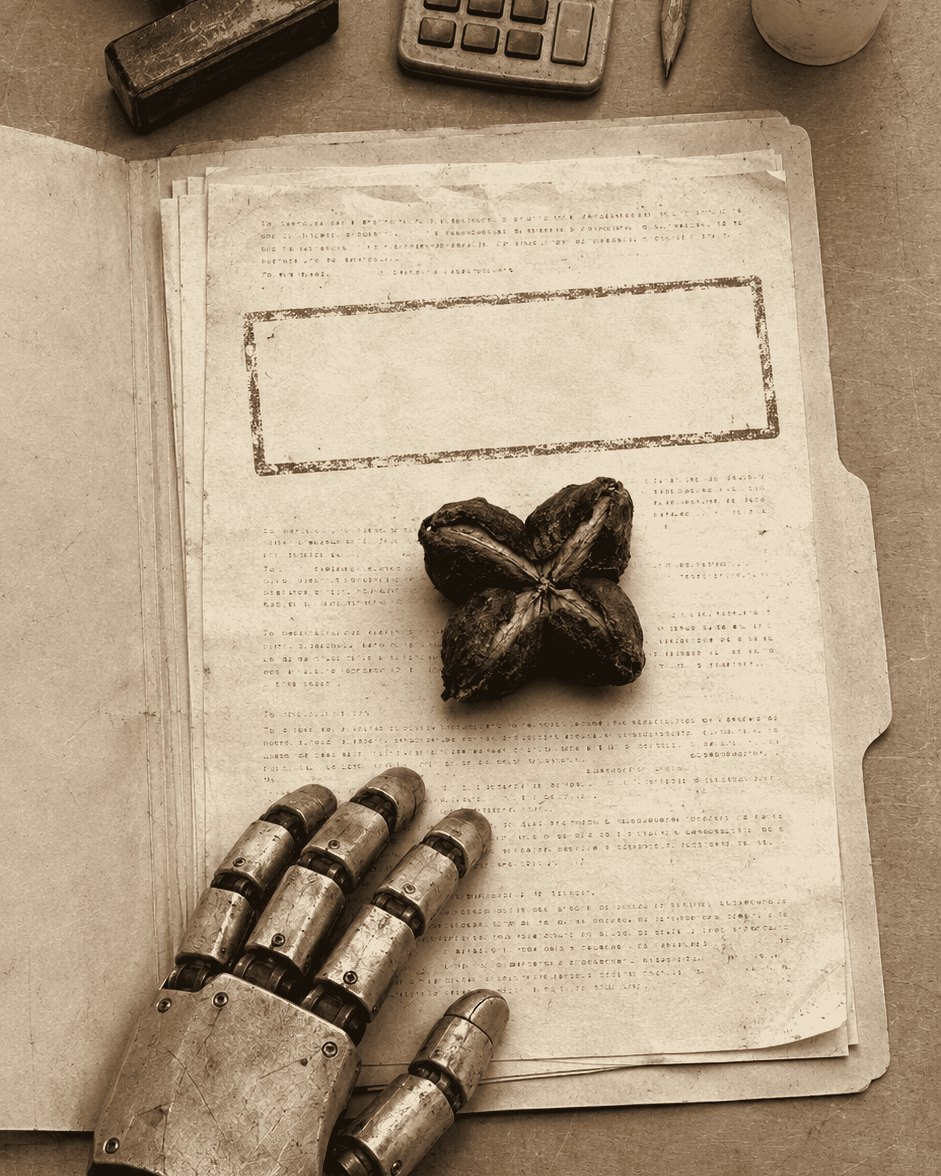
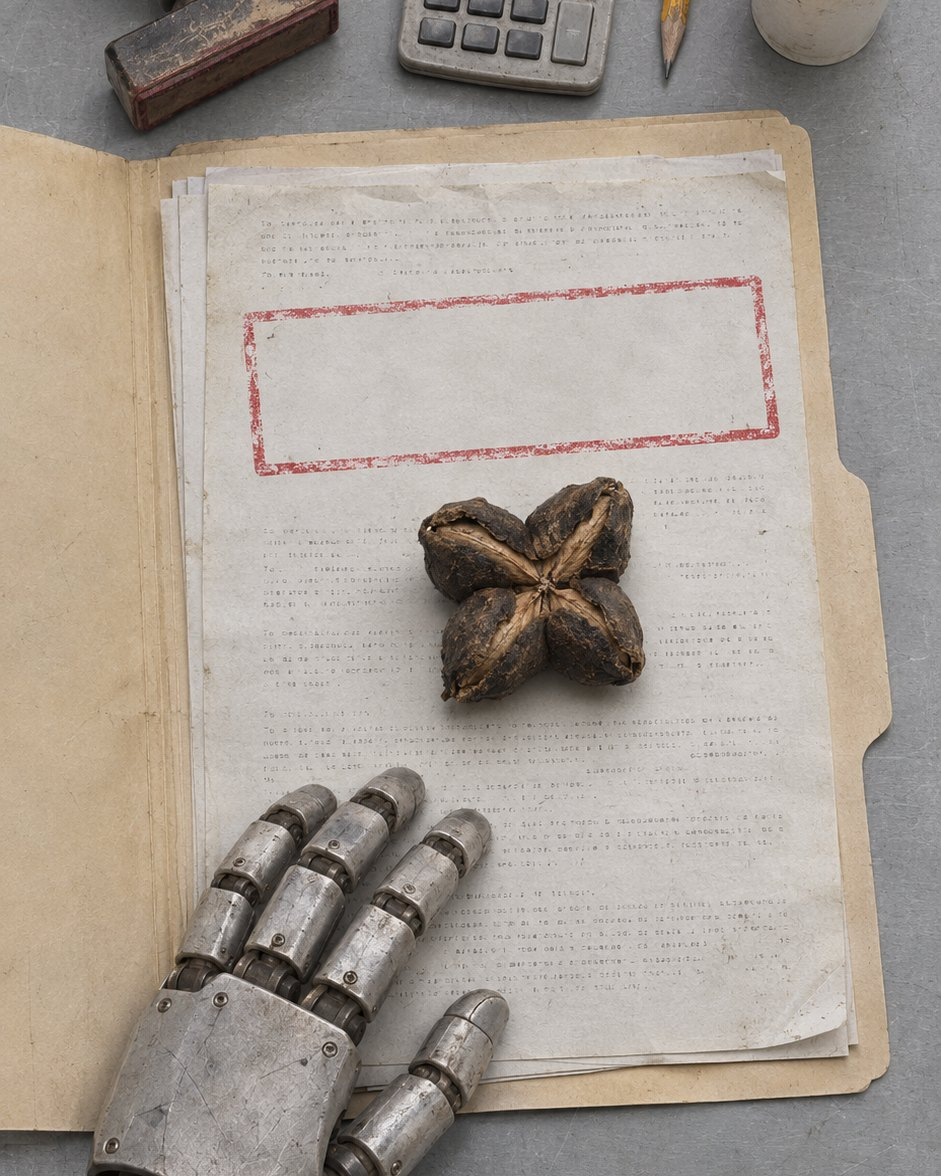
Hero: a little more colour through the sepia; Planta 001 photo uses the same grade (colour version + CSS filter)
Claude-Session: https://claude.ai/code/session_01NMe321R5xgtq7wWCRNWanC

diff --git a/assets/jc-shop.css b/assets/jc-shop.css
@@ -63,7 +63,7 @@
 /* Hero */
 .jcs-hero { position: relative; min-height: min(92vh, 880px); color: #fff; overflow: hidden; display: flex; flex-direction: column; justify-content: space-between; background: #1b1b1b; }
 .jcs-hero__media, .jcs-hero__media picture, .jcs-hero__media img, .jcs-hero__media video { position: absolute; inset: 0; width: 100%; height: 100%; object-fit: cover; }
-.jcs-hero__media img, .jcs-hero__media video { filter: grayscale(.38) sepia(.4) saturate(1.05) hue-rotate(-5deg) contrast(1.1) brightness(.78); }
+.jcs-hero__media img, .jcs-hero__media video { filter: grayscale(.3) sepia(.34) saturate(1.08) hue-rotate(-4deg) contrast(1.1) brightness(.78); }
 .jcs-hero__shade { position: absolute; inset: 0; background: linear-gradient(180deg, rgba(20,14,8,.63) 0%, rgba(20,14,8,.48) 40%, rgba(20,14,8,.3) 62%, rgba(20,14,8,.15) 78%, rgba(0,0,0,.45) 100%); }
 .jcs-hero__top, .jcs-hero__body, .jcs-hero__bottom { position: relative; width: var(--frame); margin-inline: auto; }
 .jcs-hero__top { display: flex; justify-content: space-between; gap: 20px; padding-top: 24px; font-size: 11px; font-weight: 600; letter-spacing: .16em; text-transform: uppercase; }
@@ -1021,3 +1021,6 @@ a.jcs-invest__box:hover { background: #e9e1d4; }
   .jcs-manifesto__photo { margin: 0; }
 }
 .jcs-manifesto figure.jcs-manifesto__photo img { aspect-ratio: 4 / 5; object-fit: cover; object-position: center 60%; }
+
+/* Planta 001 photo: same grade as the hero (colour through the sepia), without the hero's darkening */
+.jcs-manifesto figure.jcs-manifesto__photo img { filter: grayscale(.3) sepia(.34) saturate(1.08) hue-rotate(-4deg) contrast(1.06); }
